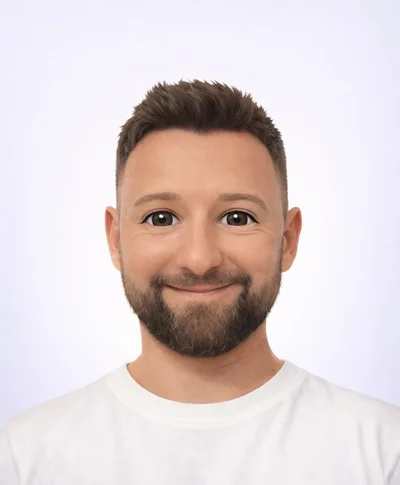
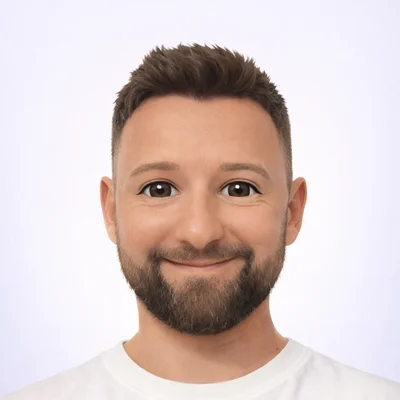
Re-crop Rob and Odhran photos to match team framing

diff --git a/lib/data/team.ts b/lib/data/team.ts
@@ -7,7 +7,7 @@ export interface TeamMember {
 }
 
 export const leadership: TeamMember[] = [
-  { name: "Rob Egan", role: "Co-founder & MD", slug: "Rob", bio: "", photoPosition: "center 10%" },
+  { name: "Rob Egan", role: "Co-founder & MD", slug: "Rob", bio: "" },
   { name: "Mark Nolan", role: "Co-founder & CTO", slug: "markN", bio: "" },
   { name: "Renata Dima", role: "Head of Design & Research", slug: "Renata", bio: "" },
 ];
